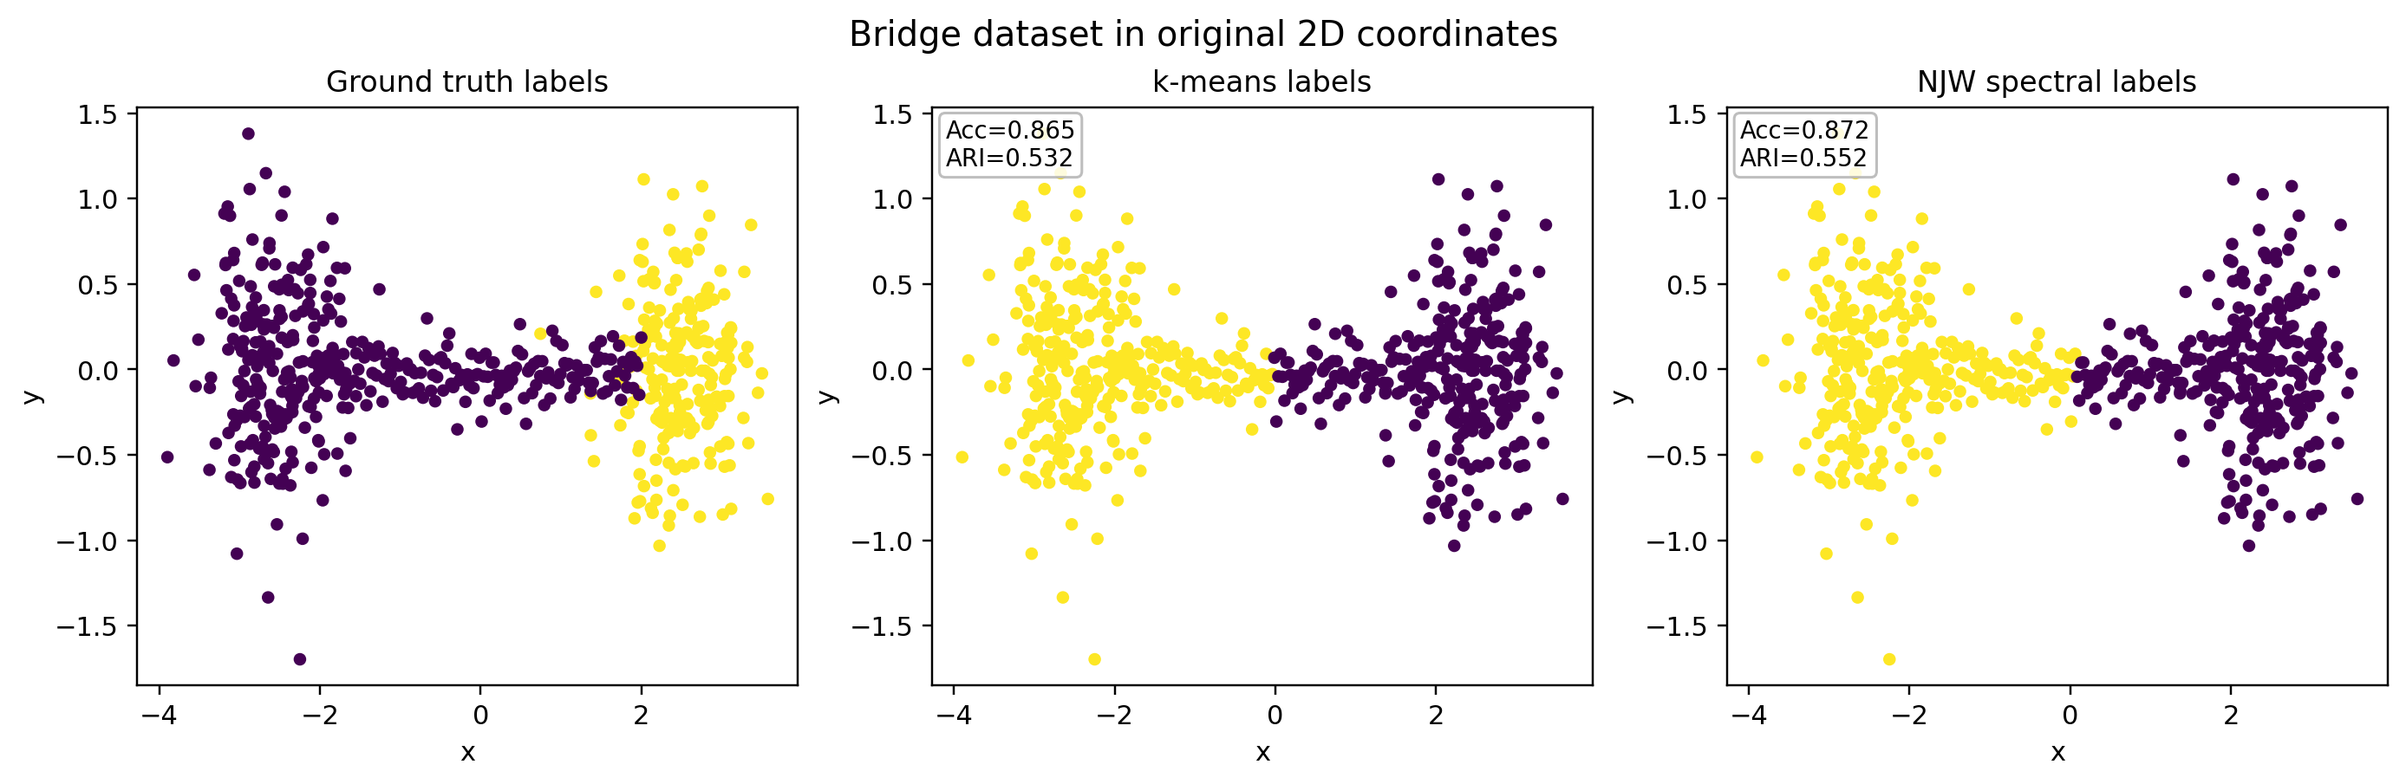
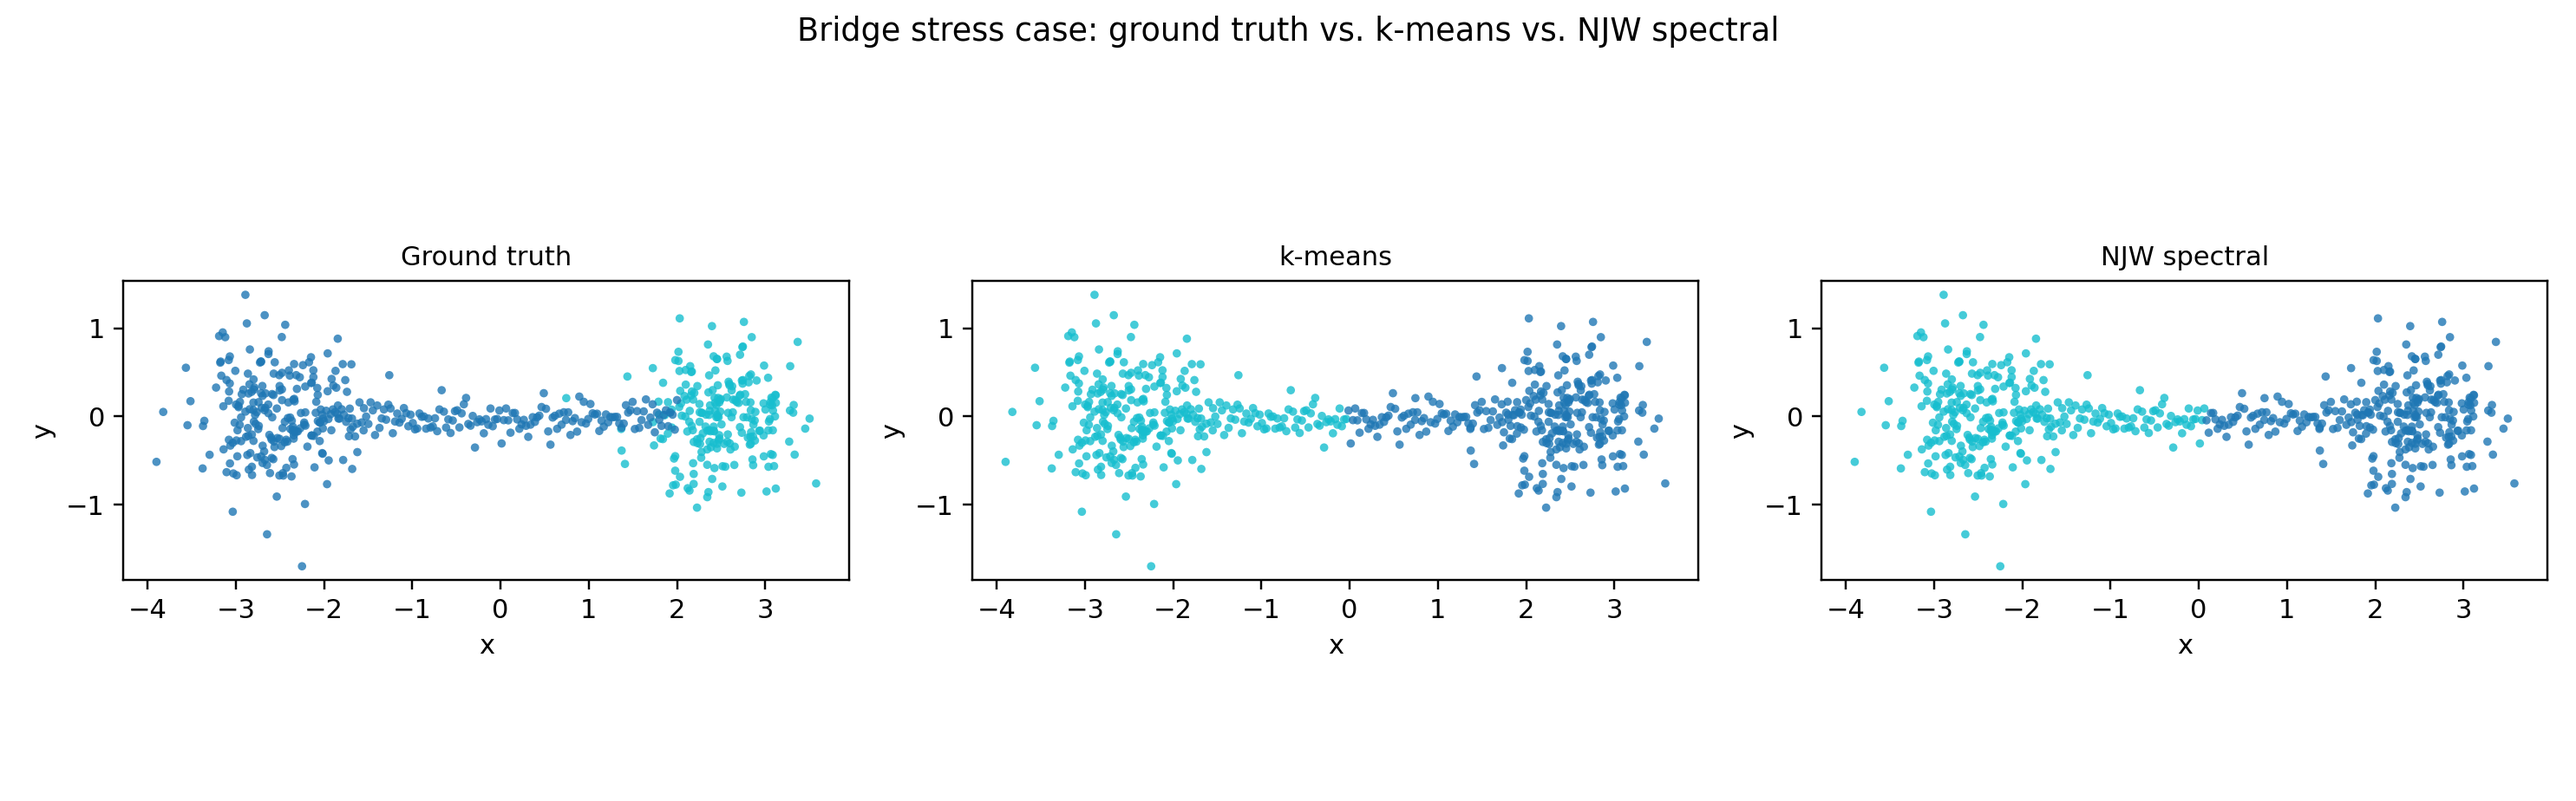
fix extra experiments

diff --git a/main.tex b/main.tex
@@ -485,22 +485,44 @@ Figure~\ref{fig:scaling} reports runtime and approximate memory scaling. The plo
 
 Below are some extra experiments we do for fun! They are not required in the project outline. Feel free to skip them for grading but they are pretty interesting!
 \subsection{Parameter sensitivity map}
-Spectral clustering depends strongly on the graph it constructs. Figure~\ref{fig:paramsensitivity} shows a phase-diagram style sweep on two moons, varying both the \textbf{feature noise} and the \textbf{number of nearest neighbors} in the graph. The final red-outlined column reports the $k$-means baseline at the same noise level. The main pattern is useful: there is a broad stable band at moderate neighbor counts, but too few neighbors can fragment the graph, while too many neighbors can wash out the two-moon geometry once noise is substantial. In the high-neighbor regime, performance often approaches the $k$-means baseline, consistent with the idea that an overly dense neighborhood graph loses the local manifold structure that gives spectral clustering its advantage.
+Spectral clustering depends strongly on the graph it constructs. Figure~\ref{fig:paramsensitivity} shows a phase-diagram style sweep on two moons, varying both the \textbf{feature noise} $\sigma$ and the \textbf{number of nearest neighbors} $k$ in the $k$-NN graph. The final red-outlined column reports the $k$-means ARI at the same noise level, providing a reference for when spectral clustering degenerates to centroid-style behavior.
+
+The dominant structure in the heatmap is a stable high-ARI band at moderate $k$ under low noise. Two distinct failure regimes emerge:
+\begin{itemize}[leftmargin=1.4em]
+    \item \textbf{Too few neighbors ($k=3$):} The graph becomes sparse enough to fragment, and the two moons disconnect into many small components. The Fiedler vector no longer captures the intended two-way cut.
+    \item \textbf{Too many neighbors (large $k$) under high noise:} Dense connectivity washes out the manifold geometry. In this regime the $k$-NN graph resembles a dense RBF graph, and spectral clustering performance collapses toward the $k$-means baseline in the red column---a concrete illustration of the asymptotic equivalence between over-connected spectral graphs and centroid clustering.
+\end{itemize}
 
 \begin{figure}[H]
     \centering
     \includegraphics[width=0.78\textwidth]{final_pic/parameter_sensitivity_heatmap.png}
-    \caption{Parameter sensitivity map on two moons. Each cell is ARI for normalized spectral clustering as the noise level and $k$-NN graph degree vary; the red-outlined column gives the $k$-means reference value at the same noise level.}
+    \caption{Parameter sensitivity map on two moons. Each cell reports ARI for NJW spectral clustering as noise $\sigma$ (rows) and graph degree $k$ (columns) vary. The red-outlined column gives the $k$-means baseline at the same noise level; note how spectral ARI converges to it when $k$ is large.}
     \label{fig:paramsensitivity}
 \end{figure}
 
-Figure~\ref{fig:paramsensitivityslices} makes this more concrete by showing representative rows and columns of the heatmap. Along rows, the low-noise case shows a wide range of graph degrees with near-perfect recovery, while the high-noise case remains poor across the entire sweep. Along columns, increasing noise gradually erodes the local graph signal until the spectral method behaves little better than the centroid baseline.
+Figures~\ref{fig:paramsensitivityrows} and~\ref{fig:paramsensitivitycols} translate the heatmap into actual cluster assignments so that qualitative geometry is visible, not just summary statistics.
+
+\textbf{Row slices (Figure~\ref{fig:paramsensitivityrows}).} Each row fixes the noise level and sweeps $k \in \{3, 8, 12, 28\}$.
+\begin{itemize}[leftmargin=1.4em]
+    \item \emph{Low noise ($\sigma=0.02$):} All four $k$ values recover clean two-moon assignments (ARI $\approx 1.0$). The moon geometry is so strong that almost any connected graph finds it.
+    \item \emph{High noise ($\sigma=0.28$):} ARI drops to $\approx 0.2$ across the board. The scatter plots show that points from both moons are scrambled in feature space; no $k$ value rescues the structure.
+    \item \emph{Extreme noise ($\sigma=0.36$):} ARI collapses to $\approx 0.05$---near random. Visually the two moons are entirely merged, and spectral clustering assigns clusters that bear no relationship to the original labels.
+\end{itemize}
 
 \begin{figure}[H]
     \centering
-    \includegraphics[width=0.92\textwidth]{final_pic/parameter_sensitivity_examples.png}
-    \caption{Representative slices of the sensitivity map. Left: ARI as graph degree varies for several fixed noise levels, with dashed $k$-means references. Right: ARI as noise varies for several fixed graph degrees.}
-    \label{fig:paramsensitivityslices}
+    \includegraphics[width=\textwidth]{final_pic/parameter_sensitivity_rows.png}
+    \caption{Representative row slices of the sensitivity map. Each panel shows actual NJW cluster assignments on two moons for a fixed noise level $\sigma$ (row) and graph degree $k$ (column). Color encodes predicted cluster. The ARI annotated in each title matches the heatmap cell.}
+    \label{fig:paramsensitivityrows}
+\end{figure}
+
+\textbf{Column slice (Figure~\ref{fig:paramsensitivitycols}).} Fixing $k=12$, noise increases left to right from $\sigma=0.02$ to $\sigma=0.36$. This provides a visual explanation for why ARI degrades: the manifold that gives spectral clustering its advantage is progressively erased by noise, and the graph can no longer encode any low-density separation.
+
+\begin{figure}[H]
+    \centering
+    \includegraphics[width=\textwidth]{final_pic/parameter_sensitivity_cols.png}
+    \caption{Representative column slice of the sensitivity map. Graph degree fixed at $k=12$; noise increases left to right. Each panel shows NJW cluster assignments with ARI annotated. The progressive erasure of the two-moon structure directly explains the heatmap's column-wise ARI decay.}
+    \label{fig:paramsensitivitycols}
 \end{figure}
 
 \subsection{Eigengap study}
@@ -514,23 +536,39 @@ A common heuristic for spectral clustering is that the first few eigenvalues of 
 \end{figure}
 
 \subsection{Graph construction ablation}
-The strongest additional lesson is that graph construction is the main inductive bias. We compare three affinity constructions:
+The strongest additional lesson is that graph construction is the primary inductive bias. We ablate three affinity matrix designs, each placing a different locality prior on the similarity structure.
+
+\paragraph{Dense RBF (Gaussian kernel).}
 \[
-W_{ij}^{\mathrm{dense}} = \exp(-\gamma \lVert x_i-x_j\rVert_2^2),
+W_{ij}^{\mathrm{dense}} = \exp\!\left(-\gamma \lVert x_i-x_j\rVert_2^2\right), \quad \gamma = \frac{1}{2\hat{\sigma}^2},
 \]
+where $\hat{\sigma}^2$ is estimated from the data (e.g.\ median pairwise squared distance). Every pair of points receives a positive edge weight; the resulting graph is fully connected and $W^{\mathrm{dense}}$ is dense. This kernel is parameter-efficient but loses directional locality information: points on the same manifold arm and points on different arms may receive similar weights if their Euclidean distances happen to be close.
+
+\paragraph{Union $k$-NN with RBF weights.}
 \[
-W_{ij}^{\mathrm{kNN}} = \mathbf{1}\{j\in \mathcal{N}_m(i) \text{ or } i\in \mathcal{N}_m(j)\} \exp(-\gamma \lVert x_i-x_j\rVert_2^2),
+W_{ij}^{\mathrm{kNN}} = \mathbf{1}\!\left\{j\in \mathcal{N}_m(i) \;\text{or}\; i\in \mathcal{N}_m(j)\right\} \cdot \exp\!\left(-\gamma \lVert x_i-x_j\rVert_2^2\right),
 \]
-and
+where $\mathcal{N}_m(i)$ is the directed set of the $m$ nearest neighbors of $i$. The union rule guarantees that $W^{\mathrm{kNN}}$ is symmetric and that each node has degree at least $m$, so the graph stays connected for reasonable $m$. The $k$-NN mask restricts attention to locally relevant pairs, preserving manifold topology.
+
+\paragraph{Mutual $k$-NN with RBF weights.}
 \[
-W_{ij}^{\mathrm{mutual}} = \mathbf{1}\{j\in \mathcal{N}_m(i) \text{ and } i\in \mathcal{N}_m(j)\} \exp(-\gamma \lVert x_i-x_j\rVert_2^2).
+W_{ij}^{\mathrm{mutual}} = \mathbf{1}\!\left\{j\in \mathcal{N}_m(i) \;\text{and}\; i\in \mathcal{N}_m(j)\right\} \cdot \exp\!\left(-\gamma \lVert x_i-x_j\rVert_2^2\right).
 \]
-Here $\mathcal{N}_m(i)$ denotes the directed $m$-nearest-neighbor set of point $i$. Figure~\ref{fig:graphablation} shows that the same spectral clustering pipeline can behave very differently depending on this choice. On moons and circles, local sparse graphs preserve manifold geometry and dense RBF does poorly. On the digit subset $\{0,1,3,6\}$, dense RBF performs well, while mutual-$k$-NN becomes too restrictive and loses useful edges. The conclusion is not that one graph is universally best; rather, graph construction must match the data geometry.
+Only mutual neighbors share an edge. This produces the sparsest graph; it can disconnect if $m$ is small or the data are irregularly sampled. The mutual constraint eliminates asymmetric neighbors that arise from density differences, making the graph more robust to cluster imbalance---but at the cost of connectivity.
+
+\medskip
+Let $D^{\mathrm{kNN}}$ be the degree matrix of $W^{\mathrm{kNN}}$. The normalized Laplacian used in NJW is
+\[
+L_{\mathrm{sym}} = I - (D^{\mathrm{kNN}})^{-1/2}\, W^{\mathrm{kNN}}\, (D^{\mathrm{kNN}})^{-1/2},
+\]
+and the same formula applies substituting the other affinity matrices. The key observation is that the spectral gap of $L_{\mathrm{sym}}$ depends sensitively on which $W$ is used: an overly dense $W$ inflates within-cluster edge weights until the Fiedler value loses contrast, while an overly sparse $W$ produces disconnected components and spurious zero eigenvalues.
+
+Figure~\ref{fig:graphablation} shows the ARI for each combination. On manifold datasets (moons, circles), the local sparse graphs ($k$-NN and mutual) strongly outperform dense RBF because they preserve the low-density separation between manifold arms. On the digit subset $\{0,1,3,6\}$, dense RBF performs well---the digit classes form roughly convex blobs in pixel space---while mutual-$k$-NN becomes too restrictive and loses connectivity across digit modes. The conclusion: graph construction must be matched to the geometry of the data.
 
 \begin{figure}[H]
     \centering
     \includegraphics[width=0.70\textwidth]{final_pic/graph_construction_ablation.png}
-    \caption{Graph construction ablation. The same spectral clustering pipeline can behave very differently depending on whether the graph is dense, local sparse, or mutual local.}
+    \caption{Graph construction ablation across three datasets. Dense RBF dominates on nearly convex digit clusters; local $k$-NN graphs dominate on non-convex manifolds. Mutual $k$-NN can become too sparse on high-dimensional digit data.}
     \label{fig:graphablation}
 \end{figure}
 

diff --git a/code/spectral_project/experiments.py b/code/spectral_project/experiments.py
@@ -32,11 +32,14 @@ from .metrics import summarize
 from .plots import (
     bar_comparison,
     eigenvalue_plot,
+    groundtruth_comparison,
     heatmap,
     line_noise,
     line_scaling,
     multi_panel_scatter,
     scatter_clusters,
+    sensitivity_scatter_cols,
+    sensitivity_scatter_rows,
     sensitivity_slices,
     stacked_runtime,
 )
@@ -320,6 +323,13 @@ def run_parameter_sensitivity(random_state: int = 0) -> pd.DataFrame:
 
     noises = [0.02, 0.08, 0.14, 0.20, 0.28, 0.36]
     neighbors = [3, 5, 8, 12, 18, 28]
+
+    # Representative indices for scatter grids
+    ROW_NOISE_IDXS = [0, 4, 5]      # noise=0.02, 0.28, 0.36
+    COL_NEIGHBOR_IDXS = [0, 2, 3, 5]  # k=3, 8, 12, 28
+    COL_FIXED_NEIGHBOR_IDX = 3       # k=12 held fixed for column sweep
+
+    scatter_cache: dict = {}
     rows: list[dict] = []
     spectral_mat = np.zeros((len(noises), len(neighbors)))
     kmeans_col = np.zeros(len(noises))
@@ -338,6 +348,12 @@ def run_parameter_sensitivity(random_state: int = 0) -> pd.DataFrame:
             spectral_mat[i, j] = ari
             rows.append({"dataset": "two_moons", "noise": noise, "n_neighbors": nn, "spectral_ari": ari, "kmeans_ari_at_same_noise": km_ari})
 
+            # Cache scatter data for representative configurations
+            need_for_rows = (i in ROW_NOISE_IDXS and j in COL_NEIGHBOR_IDXS)
+            need_for_cols = (i in range(len(noises)) and j == COL_FIXED_NEIGHBOR_IDX)
+            if need_for_rows or need_for_cols:
+                scatter_cache[(i, j)] = (X.copy(), y.copy(), spec.labels.copy(), ari)
+
     full_mat = np.concatenate([spectral_mat, kmeans_col[:, None]], axis=1)
     heatmap(
         figures_dir() / "parameter_sensitivity_heatmap.png",
@@ -350,15 +366,27 @@ def run_parameter_sensitivity(random_state: int = 0) -> pd.DataFrame:
         "ARI",
         separator_before_last=True,
     )
-    sensitivity_slices(
-        figures_dir() / "parameter_sensitivity_examples.png",
-        neighbors,
+
+    # Scatter grid: rows = noise levels, cols = kNN degrees
+    sensitivity_scatter_rows(
+        figures_dir() / "parameter_sensitivity_rows.png",
+        scatter_cache,
         noises,
-        full_mat,
-        kmeans_col,
-        selected_rows=[0, 2, 5],
-        selected_cols=[0, 3, 5],
+        neighbors,
+        row_noise_idxs=ROW_NOISE_IDXS,
+        col_neighbor_idxs=COL_NEIGHBOR_IDXS,
     )
+
+    # Scatter strip: fixed k=12, all noise levels
+    sensitivity_scatter_cols(
+        figures_dir() / "parameter_sensitivity_cols.png",
+        scatter_cache,
+        noises,
+        neighbors,
+        all_noise_idxs=list(range(len(noises))),
+        fixed_neighbor_idx=COL_FIXED_NEIGHBOR_IDX,
+    )
+
     return _save_results(pd.DataFrame(rows), "parameter_sensitivity_metrics.csv")
 
 
@@ -476,6 +504,28 @@ def run_failure_taxonomy(random_state: int = 0) -> pd.DataFrame:
     return _save_results(pd.DataFrame(rows), "failure_taxonomy_metrics.csv")
 
 
+def run_failure_comparison_figures(random_state: int = 0) -> None:
+    """Regenerate 3-panel ground-truth/k-means/spectral figures for each failure mode."""
+    failure = make_failure_datasets(random_state=random_state)
+    figs = figures_dir()
+    name_to_outfile = {
+        "overlapping_blobs_failure": "overlapping_groundtruth_kmeans_njw.png",
+        "bridge_failure": "bridge_groundtruth_kmeans_njw.png",
+    }
+    title_map = {
+        "overlapping_blobs_failure": "Overlapping blobs: ground truth vs. k-means vs. NJW spectral",
+        "bridge_failure": "Bridge stress case: ground truth vs. k-means vs. NJW spectral",
+    }
+    for name, (X, y, k, _) in failure.items():
+        spec = ng_jordan_weiss(X, n_clusters=k, n_neighbors=FAILURE_NEIGHBORS[name], random_state=random_state)
+        km = kmeans_baseline(X, n_clusters=k, random_state=random_state)
+        groundtruth_comparison(
+            figs / name_to_outfile[name],
+            X, y, km.labels, spec.labels,
+            title=title_map[name],
+        )
+
+
 def run_bottleneck_breakdown(random_state: int = 0) -> pd.DataFrame:
     df = pd.read_csv(results_dir() / "scaling_metrics.csv")
     sdf = df[df["method"] == "spectral"].copy()
@@ -500,6 +550,7 @@ def run_all_experiments(random_state: int = 0) -> dict[str, pd.DataFrame]:
         "bottleneck": run_bottleneck_breakdown(random_state=random_state),
     }
     run_summary_figures()
+    run_failure_comparison_figures(random_state=random_state)
     combined = pd.concat([outputs["synthetic"], outputs["real"]], ignore_index=True)
     _save_results(combined, "all_metrics.csv")
     return outputs

diff --git a/code/spectral_project/plots.py b/code/spectral_project/plots.py
@@ -182,3 +182,102 @@ def sensitivity_slices(path: Path, neighbor_values, noise_values, spectral_matri
     fig.tight_layout()
     fig.savefig(path, dpi=220)
     plt.close(fig)
+
+
+def sensitivity_scatter_rows(
+    path: Path,
+    scatter_cache: dict,
+    noise_values: list,
+    neighbor_values: list,
+    row_noise_idxs: list[int],
+    col_neighbor_idxs: list[int],
+) -> None:
+    """Grid of actual scatter plots: rows = noise levels, cols = kNN degrees."""
+    n_rows = len(row_noise_idxs)
+    n_cols = len(col_neighbor_idxs)
+    fig, axes = plt.subplots(n_rows, n_cols, figsize=(3.2 * n_cols, 2.8 * n_rows))
+    if n_rows == 1:
+        axes = axes[np.newaxis, :]
+    if n_cols == 1:
+        axes = axes[:, np.newaxis]
+
+    for ri, ni in enumerate(row_noise_idxs):
+        for ci, ki in enumerate(col_neighbor_idxs):
+            ax = axes[ri, ci]
+            key = (ni, ki)
+            if key in scatter_cache:
+                X, _y_true, y_pred, ari = scatter_cache[key]
+                ax.scatter(X[:, 0], X[:, 1], c=y_pred, s=5, cmap="tab10", alpha=0.75, linewidths=0)
+                ax.set_title(f"noise={noise_values[ni]:.2f}, k={neighbor_values[ki]}\nARI={ari:.2f}", fontsize=8)
+            else:
+                ax.set_title(f"noise={noise_values[ni]:.2f}, k={neighbor_values[ki]}", fontsize=8)
+            ax.set_xticks([])
+            ax.set_yticks([])
+            ax.set_aspect("equal", adjustable="box")
+        axes[ri, 0].set_ylabel(f"σ={noise_values[ni]:.2f}", fontsize=8)
+
+    for ci, ki in enumerate(col_neighbor_idxs):
+        axes[0, ci].set_xlabel(f"k={neighbor_values[ki]}", fontsize=8, labelpad=2)
+        axes[0, ci].xaxis.set_label_position("top")
+
+    fig.suptitle("Representative rows: fixed noise level, varying kNN graph degree", fontsize=10, y=1.01)
+    fig.tight_layout()
+    fig.savefig(path, dpi=220, bbox_inches="tight")
+    plt.close(fig)
+
+
+def sensitivity_scatter_cols(
+    path: Path,
+    scatter_cache: dict,
+    noise_values: list,
+    neighbor_values: list,
+    all_noise_idxs: list[int],
+    fixed_neighbor_idx: int,
+) -> None:
+    """Row of scatter plots: fixed kNN degree, varying noise."""
+    n = len(all_noise_idxs)
+    ncols = n
+    fig, axes = plt.subplots(1, ncols, figsize=(3.0 * ncols, 3.0))
+
+    for ci, ni in enumerate(all_noise_idxs):
+        ax = axes[ci]
+        key = (ni, fixed_neighbor_idx)
+        if key in scatter_cache:
+            X, _y_true, y_pred, ari = scatter_cache[key]
+            ax.scatter(X[:, 0], X[:, 1], c=y_pred, s=5, cmap="tab10", alpha=0.75, linewidths=0)
+            ax.set_title(f"noise={noise_values[ni]:.2f}\nARI={ari:.2f}", fontsize=8)
+        else:
+            ax.set_title(f"noise={noise_values[ni]:.2f}", fontsize=8)
+        ax.set_xticks([])
+        ax.set_yticks([])
+        ax.set_aspect("equal", adjustable="box")
+
+    fig.suptitle(f"Representative column: k={neighbor_values[fixed_neighbor_idx]} fixed, noise increasing left→right", fontsize=10)
+    fig.tight_layout()
+    fig.savefig(path, dpi=220, bbox_inches="tight")
+    plt.close(fig)
+
+
+def groundtruth_comparison(
+    path: Path,
+    X: np.ndarray,
+    y_true: np.ndarray,
+    km_labels: np.ndarray,
+    spec_labels: np.ndarray,
+    title: str,
+    xlabel: str = "x",
+    ylabel: str = "y",
+) -> None:
+    """3-panel comparison: ground truth, k-means, NJW spectral."""
+    fig, axes = plt.subplots(1, 3, figsize=(13.5, 4.2))
+    subtitles = ["Ground truth", "k-means", "NJW spectral"]
+    for ax, labels, subtitle in zip(axes, [y_true, km_labels, spec_labels], subtitles):
+        ax.scatter(X[:, 0], X[:, 1], c=labels, s=10, cmap="tab10", alpha=0.8, linewidths=0)
+        ax.set_title(subtitle, fontsize=10)
+        ax.set_xlabel(xlabel)
+        ax.set_ylabel(ylabel)
+        ax.set_aspect("equal", adjustable="box")
+    fig.suptitle(title, fontsize=12)
+    fig.tight_layout()
+    fig.savefig(path, dpi=220)
+    plt.close(fig)
